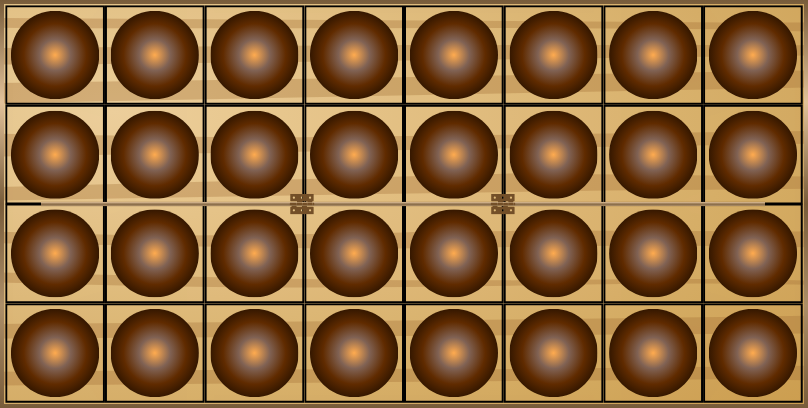
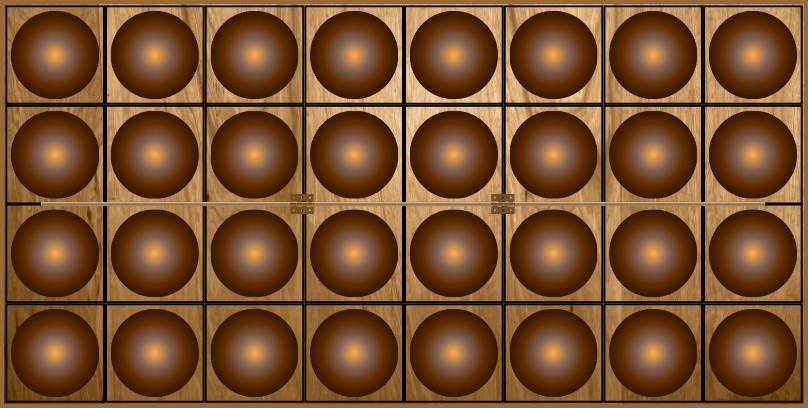
updated winner prompt

Changed region(s): [[0.0, 0.0, 1.0, 1.0], [0.6188, 0.3235, 0.6498, 0.3529]]

diff --git a/src/css/style.css b/src/css/style.css
@@ -1,19 +1,20 @@
 .full-image-button {
-    -fx-background-image: url("/resources/button.png");
+    -fx-background-image: url("/resources/button-n.png");
     -fx-background-size: 100% 100%;
-    -fx-padding: 20px;
+    -fx-padding: 30px;
     -fx-background-color: transparent;
     -fx-border-color: transparent;
     -fx-background-repeat: no-repeat;
     -fx-background-position: center center;
-    -fx-pref-width: 150px;
+    -fx-pref-width: 200px;
+    -fx-pref-height: 80px;
 }
 
 .controls-button {
     -fx-background-color: #e2a868;
     -fx-min-width: 60px;
     -fx-min-height: 60px;
-    -fx-max-width: 60px;
+    -fx-max-width: 80px;
     -fx-max-height: 60px;
     -fx-background-radius: 50em;
     -fx-border-color: transparent;

diff --git a/src/Game.java b/src/Game.java
@@ -17,8 +17,11 @@ import java.util.Objects;
 
 public class Game {
     private PaneOrganizer paneOrganizer;
+    private Board board;
     private BorderPane gamePane;
+    private HBox bottomBar;
     private Button pause;
+    private Button restart;
     private Timeline timeline;
     private int timeInMinutes;
     private int timeInSeconds;
@@ -42,7 +45,7 @@ public class Game {
      */
     private void setupGameView() {
         // Board
-        Board board = new Board(this, this.gamePane);
+        this.board = new Board(this, this.gamePane);
 
         // Header
         BorderPane topBar = new BorderPane();
@@ -59,27 +62,9 @@ public class Game {
         topBar.setCenter(turnLabel);
 
         // Timer
-        this.timeLeft = new Label("10:00");
+        this.timeLeft = new Label(this.timeInMinutes + ":00");
         this.timeLeft.setFont(loadFont(24));
         topBar.setRight(this.timeLeft);
-
-        KeyFrame timer = new KeyFrame(Duration.seconds(1), actionEvent -> {
-            if (this.timeInMinutes == 0 && this.timeInSeconds == 0) {
-                this.endGame(board);
-            }
-
-            if (this.timeInSeconds == 0) {
-                this.timeInSeconds = 60;
-                this.timeInMinutes -= 1;
-            }
-
-            this.timeInSeconds -= 1;
-            if (this.timeInSeconds < 10) {
-                this.timeLeft.setText(this.timeInMinutes + ":0" + this.timeInSeconds);
-            } else {
-                this.timeLeft.setText(this.timeInMinutes + ":" + this.timeInSeconds);
-            }
-        });
 
         this.gamePane.setTop(topBar);
 
@@ -89,22 +74,22 @@ public class Game {
         this.gamePane.setRight(rightSpacer);
 
         // Start/Restart button
-        HBox bottomBar = new HBox();
-        bottomBar.setAlignment(Pos.CENTER);
-        bottomBar.setPadding(new Insets(18.0));
+        this.bottomBar = new HBox();
+        this.bottomBar.setAlignment(Pos.CENTER);
+        this.bottomBar.setPadding(new Insets(18.0));
         Button start = new Button("START");
         start.setOnAction(actionEvent -> {
             this.isGameActive = true;
             this.currentPlayer = 1;
-            this.startTimer(timer);
-            this.showRestart(bottomBar);
+            this.startTimer();
+            this.showPauseAndRestart();
             this.turnLabel.setText("PLAYER " + this.currentPlayer + "'s TURN");
             board.flashPits();
         } );
         start.setCursor(Cursor.HAND);
         this.styleButton(start);
-        bottomBar.getChildren().add(start);
-        this.gamePane.setBottom(bottomBar);
+        this.bottomBar.getChildren().add(start);
+        this.gamePane.setBottom(this.bottomBar);
 
         // Controls
         VBox controls = new VBox();
@@ -119,7 +104,7 @@ public class Game {
         back.setOnAction(actionEvent -> {
             this.turnLabel.setVisible(true);
             topBar.setRight(this.timeLeft);
-            bottomBar.setVisible(true);
+            this.bottomBar.setVisible(true);
             this.gamePane.setCenter(board.getBoard());
         });
 
@@ -127,8 +112,12 @@ public class Game {
         settings.getStyleClass().add("controls-button");
         settings.setCursor(Cursor.HAND);
         settings.setOnAction(actionEvent -> {
-            prepControlsPage(topBar, bottomBar, back);
-            this.gamePane.setCenter(loadPage("/resources/settings-page.png"));
+            prepControlsPage(topBar, back);
+            this.gamePane.setCenter(loadPage(
+                    "/resources/settings-page.png",
+                    Constants.PAGE_WIDTH,
+                    Constants.PAGE_HEIGHT
+            ));
         });
         settings.setGraphic(this.loadIcon("/resources/settings.png"));
 
@@ -136,8 +125,12 @@ public class Game {
         info.getStyleClass().add("controls-button");
         info.setCursor(Cursor.HAND);
         info.setOnAction(actionEvent -> {
-            prepControlsPage(topBar, bottomBar, back);
-            this.gamePane.setCenter(loadPage("/resources/info-page.png"));
+            prepControlsPage(topBar, back);
+            this.gamePane.setCenter(loadPage(
+                    "/resources/info-page.png",
+                    Constants.PAGE_WIDTH,
+                    Constants.PAGE_HEIGHT
+            ));
         });
         info.setGraphic(this.loadIcon("/resources/info.png"));
 
@@ -157,13 +150,12 @@ public class Game {
     /**
      * Pauses the current game and hides the top and bottom bar
      * @param topBar - pane consisting of the header, player turn label, and timer
-     * @param bottomBar - HBox containing the start/restart buttons
      * @param back - back navigation button
      */
-    private void prepControlsPage(BorderPane topBar, HBox bottomBar, Button back) {
+    private void prepControlsPage(BorderPane topBar, Button back) {
         if (this.timeline != null && this.timeline.getStatus() == Animation.Status.RUNNING) this.pauseGame();
         this.turnLabel.setVisible(false);
-        bottomBar.setVisible(false);
+        this.bottomBar.setVisible(false);
         topBar.setRight(back);
     }
 
@@ -172,12 +164,12 @@ public class Game {
      * @param path - image path
      * @return layout pane containing the loaded image
      */
-    private HBox loadPage(String path) {
+    private HBox loadPage(String path, int width, int height) {
         HBox pane = new HBox();
         Image image = new Image(this.getClass().getResourceAsStream(path));
         ImageView imageView = new ImageView(image);
-        imageView.setFitWidth(Constants.PAGE_WIDTH);
-        imageView.setFitHeight(Constants.PAGE_HEIGHT);
+        imageView.setFitWidth(width);
+        imageView.setFitHeight(height);
         pane.setAlignment(Pos.CENTER);
         pane.getChildren().add(imageView);
         return pane;
@@ -186,8 +178,27 @@ public class Game {
     /**
      * Starts the timer at the beginning of a new game
      */
-    private void startTimer(KeyFrame timer) {
-        this.timeInMinutes = 1;
+    private void startTimer() {
+        KeyFrame timer = new KeyFrame(Duration.seconds(1), actionEvent -> {
+            if (this.timeInMinutes == 0 && this.timeInSeconds == 0) {
+                this.endGame();
+                return;
+            }
+
+            if (this.timeInSeconds == 0) {
+                this.timeInSeconds = 60;
+                this.timeInMinutes -= 1;
+            }
+
+            this.timeInSeconds -= 1;
+            if (this.timeInSeconds < 10) {
+                this.timeLeft.setText(this.timeInMinutes + ":0" + this.timeInSeconds);
+            } else {
+                this.timeLeft.setText(this.timeInMinutes + ":" + this.timeInSeconds);
+            }
+        });
+
+        this.timeInMinutes = 0;
         this.timeInSeconds = 60;
         this.timeline = new Timeline(timer);
         this.timeline.setCycleCount(Timeline.INDEFINITE);
@@ -197,34 +208,53 @@ public class Game {
     /**
      * Ends game and displays winner
      */
-    private void endGame(Board board) {
-        int countOne = board.getPlayerOneBeadCount();
-        int countTwo = board.getPlayerTwoBeadCount();
-        ImageView imgView;
-        if (countOne > countTwo) imgView = loadIcon("/resources/winner1.png");
-        else if (countTwo > countOne) imgView = loadIcon("/resources/winner2.png");
-        else imgView = loadIcon("/resources/tie.png");
+    private void endGame() {
+        this.timeline.stop();
+        this.turnLabel.setVisible(false);
+        this.bottomBar.getChildren().remove(this.pause);
+        this.restart.setText("PLAY AGAIN");
+
+        int countOne = this.board.getPlayerOneBeadCount();
+        int countTwo = this.board.getPlayerTwoBeadCount();
+        HBox promptPane;
+        if (countOne > countTwo) {
+            promptPane = loadPage(
+                    "/resources/winner1.png",
+                    Constants.PROMPT_WIDTH,
+                    Constants.PROMPT_HEIGHT);
+        }
+        else if (countTwo > countOne) {
+            promptPane = loadPage(
+                    "/resources/winner2.png",
+                    Constants.PROMPT_WIDTH,
+                    Constants.PROMPT_HEIGHT);
+        }
+        else {
+            promptPane = loadPage(
+                    "/resources/tie.png",
+                    Constants.PROMPT_WIDTH,
+                    Constants.PROMPT_HEIGHT);
+        }
 
         StackPane stack = new StackPane();
-        StackPane prompt = new StackPane();
         Label outcome = new Label(countOne + " : " + countTwo);
-        prompt.getChildren().addAll(imgView, outcome);
-        stack.getChildren().addAll(this.gamePane, prompt);
+        outcome.setFont(loadFont(24));
+        stack.getChildren().addAll(promptPane, outcome);
+        this.gamePane.setCenter(stack);
     }
 
     /**
-     * Display the restart button when a new game begins
-     * @param bottomPane - layout pane containing the start button
+     * Display the pause and restart buttons when a new game begins
      */
-    private void showRestart(HBox bottomPane) {
-        Button restart = new Button("RESTART");
-        restart.setOnAction(actionEvent -> {
+    private void showPauseAndRestart() {
+        this.restart = new Button("RESTART");
+        this.restart.setOnAction(actionEvent -> {
             this.timeline.stop();
             this.setupGameView();
         });
-        restart.setCursor(Cursor.HAND);
-        this.styleButton(restart);
-        bottomPane.getChildren().clear();
+        this.restart.setCursor(Cursor.HAND);
+        this.styleButton(this.restart);
+        this.bottomBar.getChildren().clear();
 
         this.pause = new Button("PAUSE");
         this.pause.setCursor(Cursor.HAND);
@@ -232,7 +262,7 @@ public class Game {
         this.pause.setOnAction(actionEvent -> {
             this.pauseGame();
         });
-        bottomPane.getChildren().addAll(this.pause, restart);
+        this.bottomBar.getChildren().addAll(this.pause, restart);
     }
 
     /**
@@ -240,7 +270,7 @@ public class Game {
      */
     private void pauseGame() {
         if (this.gameIsActive()) {
-            this.pause.setText("PLAY");
+            this.pause.setText("RESUME");
             this.timeline.pause();
             this.turnLabel.setText("GAME PAUSED");
         } else {

diff --git a/src/Constants.java b/src/Constants.java
@@ -5,6 +5,8 @@ public class Constants {
     public static final int BOARD_WIDTH = 808;
     public static final int PAGE_HEIGHT = 550;
     public static final int PAGE_WIDTH = 850;
+    public static final int PROMPT_HEIGHT = 250;
+    public static final int PROMPT_WIDTH = 500;
     public static final String PLAYER_ONE_COLOR = "#381e00";
     public static final String PLAYER_TWO_COLOR = "#4d0000";
 }
